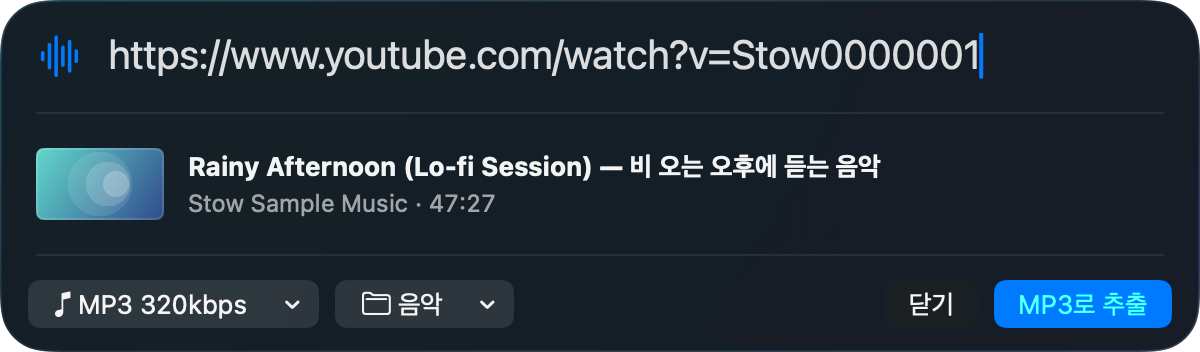
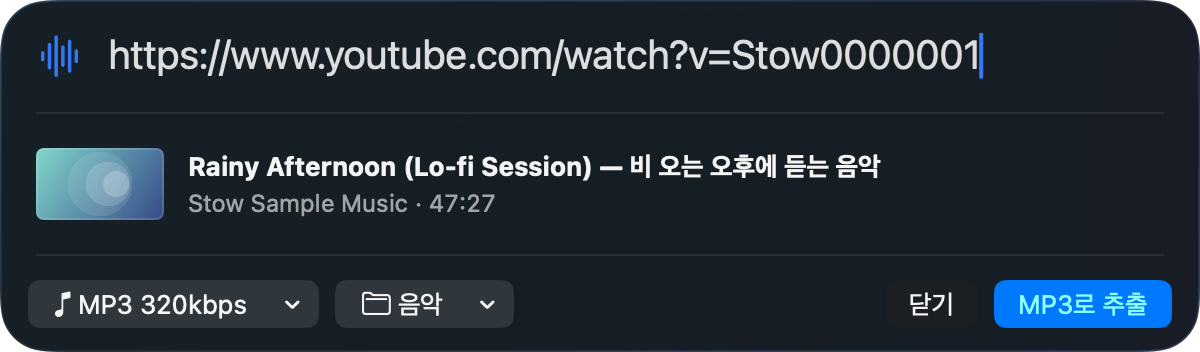
fix: 코드 리뷰 반영(데모 주소 검사, 빌드 스크립트 보호, 패널 스크린샷)
- 데모: 브라우저 URL 검사가 스킴 없는 주소(youtu.be/…)를 막지 않게 novalidate.
  채널 경로를 대소문자 무시로 판별, 경로 없는 주소는 앱처럼 "유튜브 영상 주소가 아닙니다".
  파일 이름을 앱 규칙과 같게(모든 제어 문자, 200바이트 글자 단위 자르기, 끝 공백, 비면 "오디오").
  완료 문구를 스크립트 문자열로
- build-site.sh: 저장소 안에서는 build/ 아래만 지우고 만든다(site/·저장소 전체 삭제 방지)
- 스크린샷: 패널 영역을 정수 좌표로 맞춰 자르는 모양과 픽셀을 일치, 원본 색 공간 유지,
  macOS 26 이전에도 둥근 영역 캡처 사용, 창만 찍는 메인·재생목록에서는 배경 창을 띄우지 않음

Claude-Session: https://claude.ai/code/session_01Xfqk2X4GaUQYHyzh4RbFm3

diff --git a/StowTests/ReadmeScreenshotTests.swift b/StowTests/ReadmeScreenshotTests.swift
@@ -77,12 +77,9 @@ struct ReadmeScreenshotTests {
                 panel.setFrameOrigin(NSPoint(x: visible.midX - panel.frame.width / 2, y: visible.midY - panel.frame.height / 2))
                 try await Task.sleep(for: .milliseconds(500))
             }
-            let name = "panel-\(dark ? "dark" : "light")"
-            if #available(macOS 26.0, *) {
-                try await Self.screencapture(roundedPanel: panel, cornerRadius: QuickPanelView.cornerRadius, name: name)
-            } else {
-                try await Self.screencapture(window: panel, name: name)
-            }
+            try await Self.screencapture(
+                roundedPanel: panel, cornerRadius: QuickPanelView.cornerRadius, name: "panel-\(dark ? "dark" : "light")"
+            )
         } catch {
             model.dismiss()
             backdrop.close()
@@ -97,8 +94,6 @@ struct ReadmeScreenshotTests {
     // MARK: - 창 띄우고 찍기
 
     private func capture(_ view: some View, size: CGSize, dark: Bool, name: String) async throws {
-        let backdrop = Backdrop.show(dark: dark)
-        defer { backdrop.close() }
         let window = NSWindow(
             contentRect: NSRect(origin: .zero, size: size),
             styleMask: [.titled, .closable, .miniaturizable, .resizable],
@@ -132,11 +127,16 @@ struct ReadmeScreenshotTests {
 
     /// 유리 패널은 창만 찍으면 뒤가 비치지 않아 회색 판으로 나오므로, 배경 위의 패널 영역을 찍은 뒤
     /// 패널 모양(둥근 모서리) 밖을 투명하게 지운다.
-    @available(macOS 26.0, *)
     private static func screencapture(roundedPanel panel: NSWindow, cornerRadius: CGFloat, name: String) async throws {
-        // 패널 창에는 유리 둘레에 그림자용 투명 여백이 있으므로 유리 자체의 영역을 찍는다.
-        let glass = try #require(Self.firstSubview(of: NSGlassEffectView.self, in: panel.contentView), "유리 뷰를 찾지 못함")
-        let rect = panel.convertToScreen(glass.convert(glass.bounds, to: nil))
+        // macOS 26+ 패널 창에는 유리 둘레에 그림자용 투명 여백이 있으므로 유리 자체의 영역을 찍는다.
+        // 그 전에는 둥근 반투명 재질이 창 전체다.
+        var shape = panel.contentView
+        if #available(macOS 26.0, *) {
+            shape = try #require(Self.firstSubview(of: NSGlassEffectView.self, in: panel.contentView), "유리 뷰를 찾지 못함")
+        }
+        let view = try #require(shape)
+        // 찍는 영역과 자르는 모양이 같은 픽셀에 맞도록 정수 좌표로 맞춘다.
+        let rect = panel.convertToScreen(view.convert(view.bounds, to: nil)).integral
         let screenHeight = NSScreen.screens.first?.frame.height ?? rect.maxY
         // screencapture -R은 왼쪽 위 원점이다.
         let region = "\(Int(rect.minX)),\(Int(screenHeight - rect.maxY)),\(Int(rect.width)),\(Int(rect.height))"
@@ -148,7 +148,7 @@ struct ReadmeScreenshotTests {
         let size = CGSize(width: source.width, height: source.height)
         let context = try #require(CGContext(
             data: nil, width: source.width, height: source.height, bitsPerComponent: 8, bytesPerRow: 0,
-            space: CGColorSpace(name: CGColorSpace.sRGB)!, bitmapInfo: CGImageAlphaInfo.premultipliedLast.rawValue
+            space: source.colorSpace ?? CGColorSpace(name: CGColorSpace.sRGB)!, bitmapInfo: CGImageAlphaInfo.premultipliedLast.rawValue
         ))
         // 패널과 같은 연속 곡률 모서리로 자른다.
         context.addPath(RoundedRectangle(cornerRadius: cornerRadius * scale, style: .continuous)

diff --git a/site/assets/demo.js b/site/assets/demo.js
@@ -47,11 +47,13 @@
     const isYT = ["youtube.com", "youtu.be"].some(h => host === h || host.endsWith("." + h));
     if (!isYT || !/^https?:$/.test(u.protocol)) return { error: T.invalid };
     const path = u.pathname;
+    if (path.length <= 1) return { error: T.invalid };
     if (host.endsWith("youtu.be")) {
       const id = path.slice(1).split("/")[0];
       return /^[\w-]{11}$/.test(id) ? { video: id } : { error: T.unsupported };
     }
-    if (["/@", "/channel/", "/c/", "/user/", "/feed/"].some(p => path.startsWith(p))) return { error: T.channel };
+    const lower = path.toLowerCase();
+    if (["/@", "/channel/", "/c/", "/user/", "/feed/"].some(p => lower.startsWith(p))) return { error: T.channel };
     const v = u.searchParams.get("v");
     if (path === "/watch" && v && /^[\w-]{11}$/.test(v)) return { video: v };
     const m = path.match(/^\/(shorts|live|embed)\/([\w-]{11})/);
@@ -110,11 +112,19 @@
     go.disabled = false;
   }
 
-  // 앱의 파일 이름 규칙(FileNaming): 경로 문자 치환, 공백 정리, 앞의 점·공백 제거.
+  // 앱의 파일 이름 규칙(YtDlpClient.sanitize): 경로 문자 치환, 제어 문자는 공백, 공백 정리,
+  // 200바이트(UTF-8)까지 글자 단위로 자르기, 앞의 점·공백과 끝 공백 제거, 비면 "오디오".
+  const encoder = new TextEncoder();
+  const segmenter = typeof Intl.Segmenter === "function" ? new Intl.Segmenter(undefined, { granularity: "grapheme" }) : null;
   function fileName(title) {
-    let name = title.replace(/[\/:]/g, "-").replace(/[\u0000-\u001f]/g, " ").split(/\s+/).filter(Boolean).join(" ");
-    name = name.replace(/^[. ]+/, "");
-    return name || "audio";
+    let name = title.replace(/[\/:]/g, "-").replace(/\p{Cc}/gu, " ").split(/\s+/).filter(Boolean).join(" ");
+    if (encoder.encode(name).length > 200) {
+      const chars = segmenter ? Array.from(segmenter.segment(name), s => s.segment) : Array.from(name);
+      while (chars.length && encoder.encode(chars.join("")).length > 200) chars.pop();
+      name = chars.join("");
+    }
+    name = name.replace(/^[. ]+/, "").replace(/ +$/, "");
+    return name || "오디오";
   }
 
   function setFormat(f) {
@@ -133,6 +143,7 @@
     const finish = () => {
       if (my !== run) return;
       show(job, false);
+      $("#demo-done .ok").textContent = T.saved;
       const name = fileName(current.title);
       file.textContent = current.playlist ? `${name}/  — ${T.folder}` : `${name}.${ext}`;
       show(done, true);

diff --git a/site/index.html b/site/index.html
@@ -52,7 +52,7 @@
     <div class="win" id="demo">
       <div class="tb" aria-hidden="true"><i></i><i></i><i></i><span>Stow</span></div>
       <div class="body">
-        <form class="urlrow" id="demo-form">
+        <form class="urlrow" id="demo-form" novalidate>
           <input id="demo-url" type="url" inputmode="url" autocomplete="off" spellcheck="false" placeholder="유튜브 영상·재생목록 주소를 붙여 넣으세요" aria-label="유튜브 주소">
           <button type="submit">불러오기</button>
         </form>

diff --git a/site/en/index.html b/site/en/index.html
@@ -52,7 +52,7 @@
     <div class="win" id="demo">
       <div class="tb" aria-hidden="true"><i></i><i></i><i></i><span>Stow</span></div>
       <div class="body">
-        <form class="urlrow" id="demo-form">
+        <form class="urlrow" id="demo-form" novalidate>
           <input id="demo-url" type="url" inputmode="url" autocomplete="off" spellcheck="false" placeholder="Paste a YouTube video or playlist link" aria-label="YouTube link">
           <button type="submit">Load</button>
         </form>
